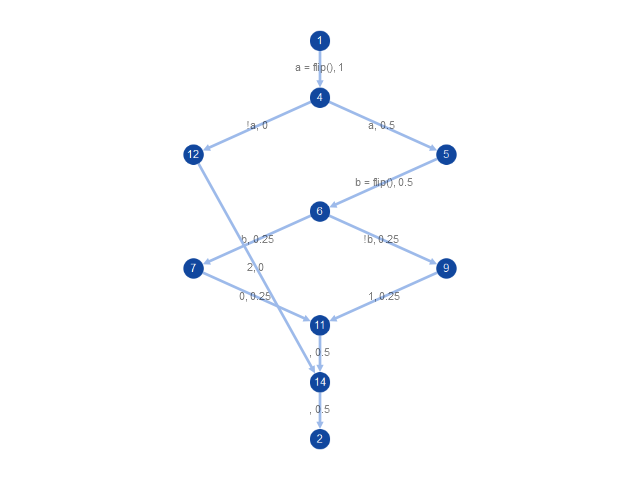
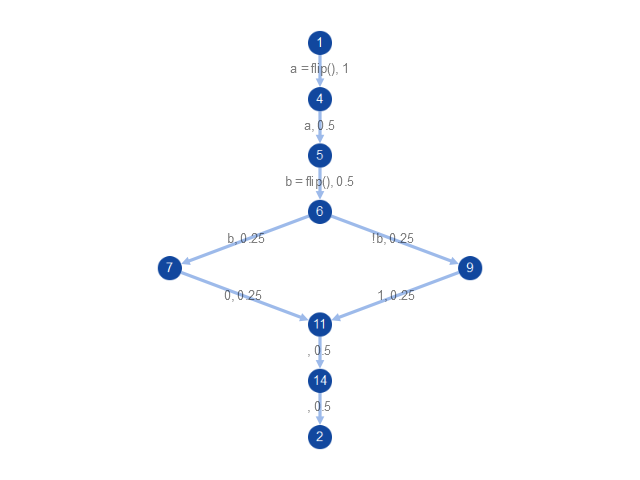
Add unreachability analysis

diff --git a/CFGAnalyzer.js b/CFGAnalyzer.js
@@ -1,0 +1,50 @@
+const digraphe = require('digraphe');
+
+class CFGAnalyzer {
+    constructor() {
+
+    }
+
+    removeUnreachableNodes(graph, controlFlowInfo) {
+        console.log("Removing unreachable nodes from CFG...");
+
+        let head = controlFlowInfo.flowGraph.entry.id.toString();
+        digraphe.Visitor.BFS(graph, head, function (array_of_nodes, depth) {
+            array_of_nodes.forEach(function(node) {
+                node.object.reachable = true;
+                let incomingEdges = node.object.incomingEdges;
+                if (incomingEdges.length > 0) {
+                    let nodeProbability = 0;
+                    incomingEdges.forEach(function(incomingEdge) {
+                        nodeProbability += incomingEdge.probability;
+                    });
+                    if (nodeProbability === 0) {
+                        node.object.reachable = false;
+                    }
+                }
+            });
+        });
+
+        let edges = controlFlowInfo.flowGraph.edges;
+        let numEdgesRemoved = 0;
+        edges.forEach(function(edge, index, edgesObject) {
+            if (!edge.source.reachable || !edge.target.reachable) {
+                edgesObject.splice(index, 1);
+                numEdgesRemoved++;
+            }
+        });
+
+        let nodes = controlFlowInfo.flowGraph.nodes;
+        let numNodesRemoved = 0;
+        nodes.forEach(function(node, index, nodesObject) {
+            if (!node.reachable) {
+                nodesObject.splice(index, 1);
+                numNodesRemoved++;
+            }
+        });
+
+        console.log(numNodesRemoved + " node(s) removed and " + numEdgesRemoved + " edge(s) removed.");
+    }
+}
+
+module.exports = CFGAnalyzer;

diff --git a/webPPLCFG.js b/webPPLCFG.js
@@ -10,10 +10,10 @@ const Escodegen = require('escodegen')
 const Styx = require('styx');
 const digraphe = require('digraphe');
 const cytosnap = require('cytosnap');
+const CFGAnalyzer = require('./CFGAnalyzer');
 var AstPreprocessing = require("./node_modules/styx/lib/parser/preprocessing/functionExpressionRewriter");
 var snap = cytosnap();
 var walk = require( 'estree-walker' ).walk;
-
 
 function runWebPPL() {
     const
@@ -309,7 +309,7 @@ function displayUsage() {
 }
 
 // Get command line arguments
-if (process.argv.length != 3) {
+if (process.argv.length < 3) {
     displayUsage();
     process.exit(1);
 }
@@ -333,7 +333,10 @@ fs.readFile(programFile, 'utf8', function(err, code) {
     let graph = loadGraph(controlFlowInfo.flowGraph);
 
     visitCFG(graph, controlFlowInfo.flowGraph.entry.id.toString(), rewrittenProgram, controlFlowInfo, 1, [], [], 0);
-    
+
+    let cfgAnalyzer = new CFGAnalyzer();
+    cfgAnalyzer.removeUnreachableNodes(graph, controlFlowInfo);
+
     let controlFlowJSON = Styx.exportAsJson(controlFlowInfo);
     console.log(controlFlowJSON);
 

diff --git a/README.md b/README.md
@@ -17,7 +17,5 @@
     - probability: edge.probability
 
 ## TODO
-- Command line arguments
-- Refactor
 - Remove unreachable nodes
 - Analysis which forces control through a specific node
